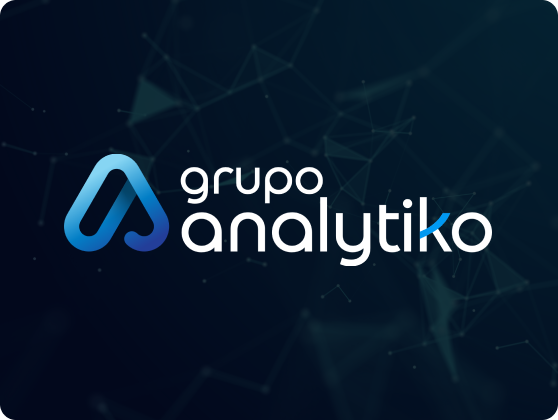
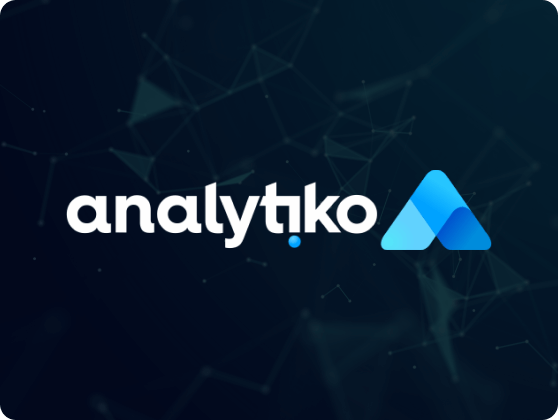
cambiar imagen rupo analytiko por analytiko

Changed region(s): [[0.0914, 0.3405, 0.8835, 0.65]]

diff --git a/Descargas/descargables.html b/Descargas/descargables.html
@@ -375,7 +375,7 @@
   <img src="./Assets/miniatura_grupoanalytiko.png" alt="miniatura de banca y finanzas" class="imagen-brochure">
   <img src="./Assets/miniatura_grupoanalytiko_mobile.png" alt="" class="banca2-mobile">
   <div class="texto-brochure">
-    <h2 class="titulo-casos">Grupo Analyiko</h2>
+    <h2 class="titulo-casos">Analytiko</h2>
      <div class="descargar-brochure">
     <button onclick="descargarPDF2()" class="texto-descarga"><p>Descargar</p> <img src="./assets/icono-descargar.svg" alt="" class="icono-descarga"></button> 
  </div>

diff --git a/Descargas/brochure_analytikoweb/analytikoweb.html b/Descargas/brochure_analytikoweb/analytikoweb.html
@@ -311,7 +311,7 @@
 
 <section id="hero"> 
     <div class="immersion-producto">
-      <img src="../Assets/Logo-Grupo-Analytiko-Diapo.png" alt="logo-ga" class="logo-hero">
+      <img src="../Assets/Logo_analytiko_claro.png" alt="logo-ga" class="logo-hero">
 </div>
 <h1 class="hero-titulo">Inteligencia y tecnología contra el fraude</h1>      
       
